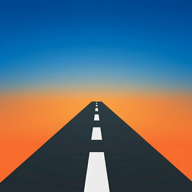
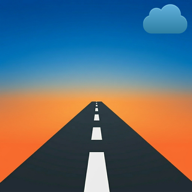
publish web app

Changed region(s): [[0.7188, 0.0, 1.0, 0.1875]]

diff --git a/flutter_service_worker.js b/flutter_service_worker.js
@@ -3,19 +3,20 @@ const MANIFEST = 'flutter-app-manifest';
 const TEMP = 'flutter-temp-cache';
 const CACHE_NAME = 'flutter-app-cache';
 
-const RESOURCES = {"flutter_bootstrap.js": "f33f8bd8eb97fe59fdeb225e9cec0e95",
+const RESOURCES = {"flutter_bootstrap.js": "2fe81b7989fa480ce580b72fc555da6d",
 "version.json": "b1de9b838eccc4df43e7d4f500d1891d",
 "index.html": "50acbd3e25ecf85606b7d08984d32139",
 "/": "50acbd3e25ecf85606b7d08984d32139",
 "main.dart.js": "14623228b4cca677697d7ccdc73750ca",
 "sqlite3.wasm": "fa7637a49a0e434f2a98f9981856d118",
 "flutter.js": "76f08d47ff9f5715220992f993002504",
-"favicon.png": "5dcef449791fa27946b3d35ad8803796",
+"favicon.png": "3d7923ab760d48cd8c837c1aef9ba703",
 "sqflite_sw.js": "b0331a8a9100e877c5597b97ec1801fa",
-"icons/Icon-192.png": "54d9d359e518bc2b7ef2adcda955b437",
-"icons/Icon-maskable-192.png": "54d9d359e518bc2b7ef2adcda955b437",
-"icons/Icon-maskable-512.png": "3226388a7ff3dac14d7c869eef04e8f6",
-"icons/Icon-512.png": "3226388a7ff3dac14d7c869eef04e8f6",
+"icons/Icon-192.png": "fb8d9d8357b2429ff63124c3c3d66fea",
+"icons/Icon-maskable-192.png": "fb8d9d8357b2429ff63124c3c3d66fea",
+"icons/Icon-maskable-512.png": "cd19c6dc50211ac6fc6dcf819cf79dbb",
+"icons/Icon-512.png": "cd19c6dc50211ac6fc6dcf819cf79dbb",
+"icons/pwa-icon-source.png": "2e476b5a26128e7d7c8dd35ab0cbb51b",
 "manifest.json": "e854547d24f3f9f7033f1ad7e609cde1",
 "assets/AssetManifest.json": "282410da8cdc0d33613f1f467da73b70",
 "assets/NOTICES": "d59ac69b0d81eacbe8e12537b818fd6f",

diff --git a/flutter_bootstrap.js b/flutter_bootstrap.js
@@ -11,6 +11,6 @@ _flutter.buildConfig = {"engineRevision":"cf56914b326edb0ccb123ffdc60f00060bd513
 
 _flutter.loader.load({
   serviceWorkerSettings: {
-    serviceWorkerVersion: "1965720200"
+    serviceWorkerVersion: "2691377345"
   }
 });
